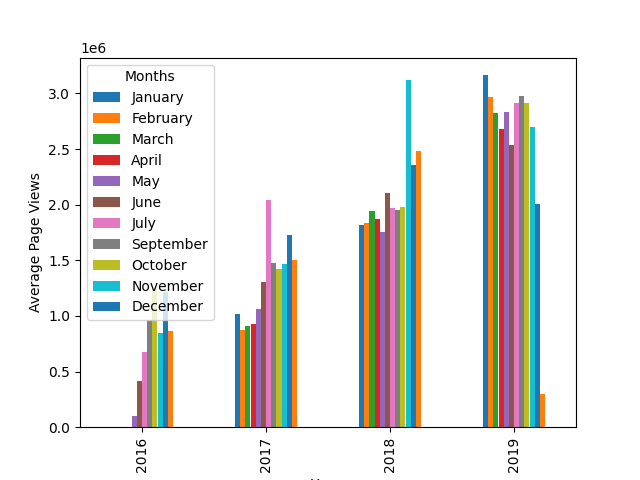
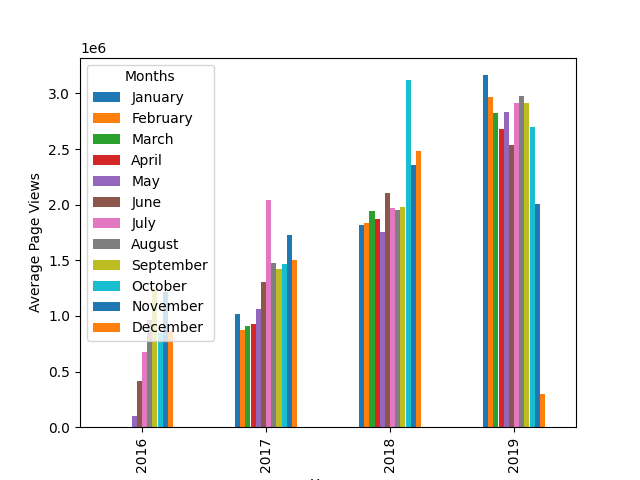
completed

Changed region(s): [[0.125, 0.5, 0.3125, 0.7188]]

diff --git a/time_series_visualizer.py b/time_series_visualizer.py
@@ -1,4 +1,4 @@
-import numpy
+import numpy as np
 import pandas as pd
 import matplotlib.pyplot as plt
 import seaborn as sns
@@ -11,6 +11,7 @@ df = pd.read_csv('fcc-forum-pageviews.csv', parse_dates=['date'], index_col=['da
 # Clean data
 # df = df.query('value > value.quantile(0.025) and value < value.quantile(1-0.025)')
 df = df[(df['value'] > df['value'].quantile(0.025)) & (df['value'] < df['value'].quantile(1 - 0.025))]
+months = ['January', 'February', 'March', 'April', 'May', 'June', 'July', 'August', 'September', 'October', 'November', 'December']
 
 def draw_line_plot():
     # Draw line plot
@@ -35,7 +36,6 @@ def draw_bar_plot():
     fig = df_bar.plot(kind='bar').get_figure()
     plt.xlabel('Years') 
     plt.ylabel('Average Page Views') 
-    months = ['January', 'February', 'March', 'April', 'May', 'June', 'July', 'September', 'October', 'November', 'December']
     plt.legend(months, title='Months')
 
 
@@ -51,17 +51,18 @@ def draw_box_plot():
     df_box['month'] = [d.strftime('%b') for d in df_box.date]
     # Draw box plots (using Seaborn)
 
+    months = ['Jan', 'Feb', 'Mar', 'Apr', 'May', 'Jun', 'Jul', 'Aug', 'Sep', 'Oct', 'Nov', 'Dec']
+
     fig, (ax1, ax2) = plt.subplots(1, 2, figsize=(12, 6))
     ax1.set_title('Year-wise Box Plot (Trend)')
     ax1.set_xlabel('Year')
     ax1.set_ylabel('Page Views')
-    sns.boxplot(data=df_box, x='month', y='value', ax=ax2)
     sns.boxplot(data=df_box, x='year', y='value', ax=ax1)
+    sns.boxplot(data=df_box, x='month', y='value', ax=ax2, order=months)
     ax2.set_title('Month-wise Box Plot (Seasonality)')
     ax2.set_xlabel('Month')
     ax2.set_ylabel('Page Views')
     plt.tight_layout()
-
 
 
     # Save image and return fig (don't change this part)

diff --git a/test_module.py b/test_module.py
@@ -4,7 +4,7 @@ import matplotlib as mpl
 
 class DataCleaningTestCase(unittest.TestCase):
     def test_data_cleaning(self):
-        actual = int(time_series_visualizer.df.count(numeric_only=True))
+        actual = int(time_series_visualizer.df.count(numeric_only=True).iloc[0])      
         expected = 1238
         self.assertEqual(actual, expected, "Expected DataFrame count after cleaning to be 1238.")
 
